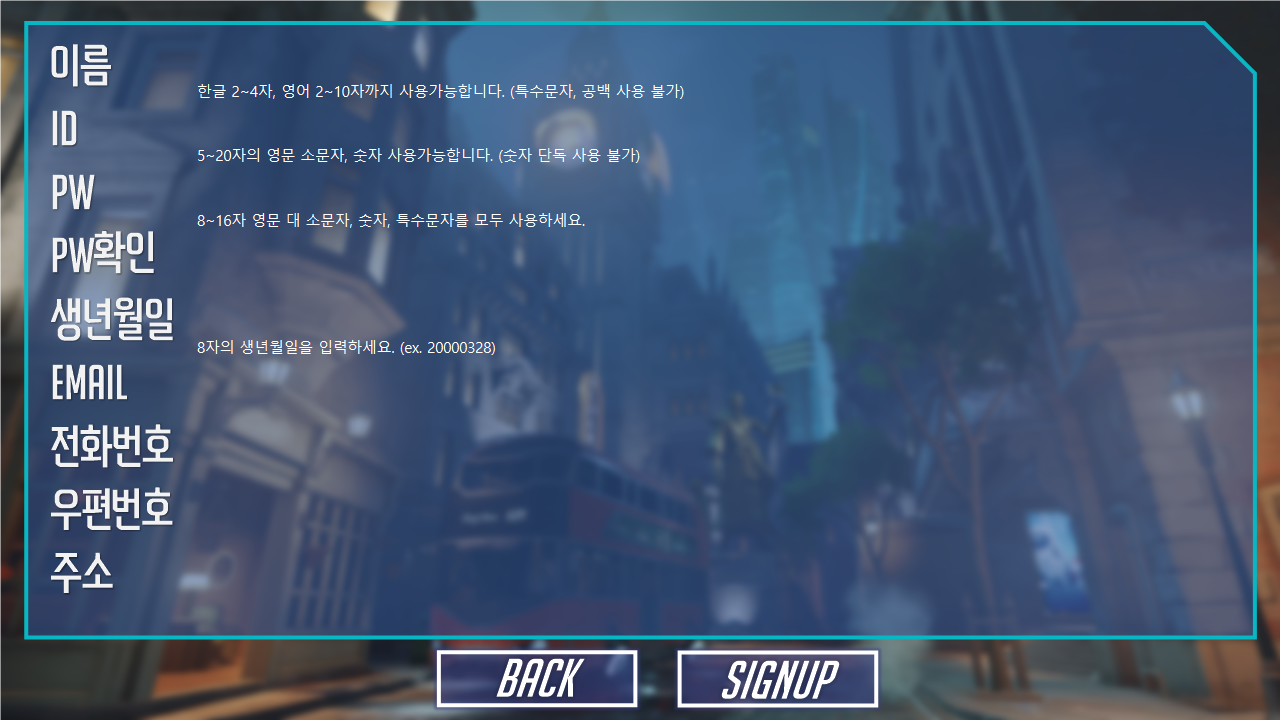
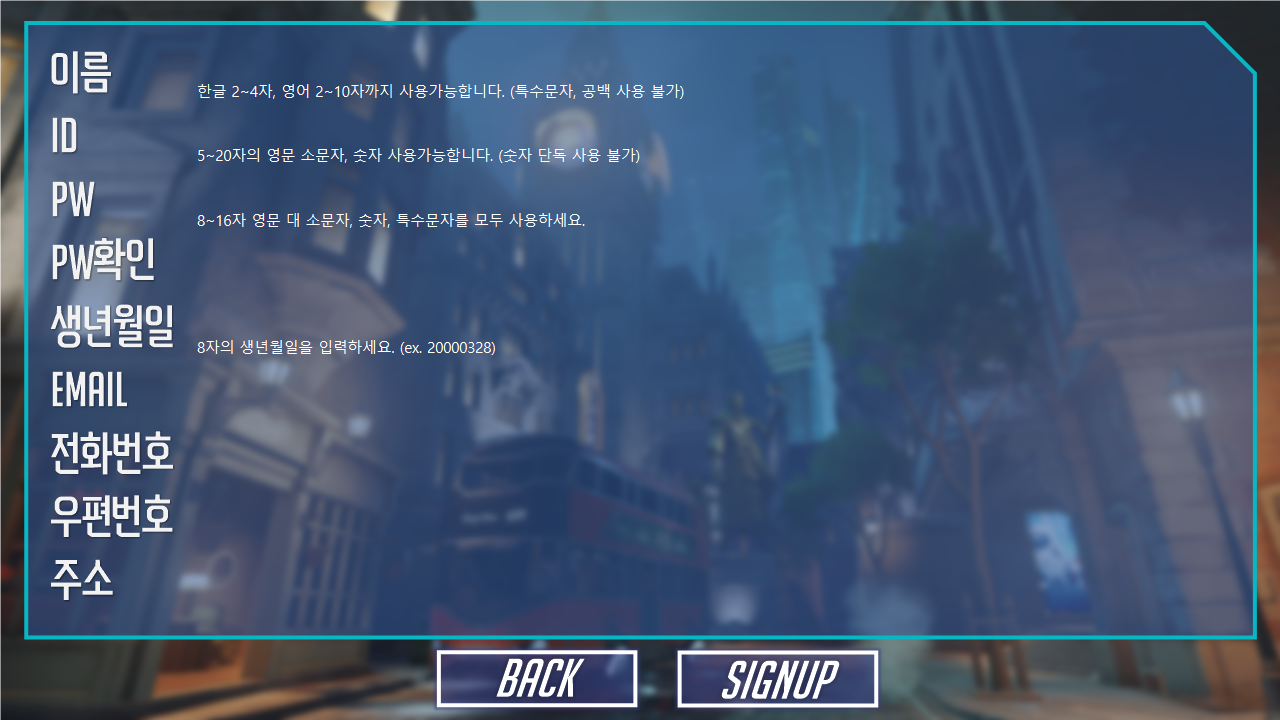
[ADD] textfield ui 정렬 완료

Changed region(s): [[0.0312, 0.2444, 0.1562, 0.825], [0.0312, 0.0611, 0.0938, 0.1528], [0.0312, 0.1528, 0.0625, 0.2139]]

diff --git a/SignUp/src/view/SignUpScreen.java b/SignUp/src/view/SignUpScreen.java
@@ -4,30 +4,32 @@ import java.awt.*;
 import javax.swing.border.*;
 
 public class SignUpScreen extends BasicScreen {
-	public Panel signupPanel;
-	public JPanel buttonPanel;
 	public JPanel signUpPagePanel;
+	private JPanel textPanel;
+	private Panel signupPanel;
+	private JPanel buttonPanel;
 	
 	private Image background;
 	private JButton backButton;
 	private JButton signupButton;
-	private JTextField idField;
-	private JTextField passwordField;
-	private JTextField passwordConfirmField;
-	private JTextField birthField;
-	private JTextField emailFrontField;
-	private JTextField emailBackField;
-	private JTextField numberField;
-	private JTextField detailAddressField;
+	private JTextField [] informationField;
+	private JLabel emailSign;
 	
 	public SignUpScreen() {
 		signupPanel = new Panel();
 		signUpPagePanel = new JPanel();
 		buttonPanel = new JPanel();
+		textPanel = new JPanel();
 		background = new ImageIcon(MainScreen.class.getResource("../image/signupPage.png")).getImage();
 		
 		backButton = new JButton(new ImageIcon(MainScreen.class.getResource("../image/backButton.png")));
 		signupButton = new JButton(new ImageIcon(MainScreen.class.getResource("../image/signupButton.png")));
+		
+		informationField = new JTextField[13];
+		for (int fieldIndex = 0;fieldIndex<13;fieldIndex++) {
+			informationField[fieldIndex] = new JTextField(){public void setBorder(Border border) {}};
+		}
+		emailSign = new JLabel("@");
 	}
 	public void showSignUpScreen() {
 		signUpPagePanel.setSize(new Dimension(1280, 745));
@@ -35,8 +37,10 @@ public class SignUpScreen extends BasicScreen {
 		signUpPagePanel.setLayout(null);
 		showSignUpBackground();
 		showButtonPanel();
+		showInformationTextField();
 		signUpPagePanel.add(signupPanel);
 		signUpPagePanel.add(buttonPanel);
+		signUpPagePanel.add(textPanel);
 	}
 	
 	public void showSignUpBackground() {
@@ -65,8 +69,49 @@ public class SignUpScreen extends BasicScreen {
 		buttonPanel.setVisible(true);
 	}
 	
-	public void showLoginTextField() {
-	
+	public void showInformationTextField() {
+		textPanel.setSize(1250, 710);
+		textPanel.setLocation(0, 0);
+		textPanel.setLayout(null);
+		
+		informationField[0].setSize(150, 30);
+		informationField[0].setLocation(195, 50); // 이름 
+		informationField[1].setSize(150, 30);
+		informationField[1].setLocation(195, 115); // 아이디 
+		informationField[2].setSize(150, 30); 
+		informationField[2].setLocation(195, 180); // 비밀번호 
+		informationField[3].setSize(150, 30);
+		informationField[3].setLocation(195, 245); // 비밀번호 확인 
+		informationField[4].setSize(150, 30);
+		informationField[4].setLocation(195, 305); // 생년월일8글자 
+		
+		informationField[5].setSize(150, 30);
+		informationField[5].setLocation(195, 370); // 이메일 아이디 
+		emailSign.setLocation(1, 1);
+		emailSign.setSize(20, 20);
+		informationField[6].setSize(150, 30);
+		informationField[6].setLocation(400, 370); // 이메일 뒷 주소 
+		
+		informationField[7].setSize(90, 30);
+		informationField[7].setLocation(195, 435); // 전화번호 
+		informationField[8].setSize(90, 30);
+		informationField[8].setLocation(290, 435);
+		informationField[9].setSize(90, 30);
+		informationField[9].setLocation(385, 435);
+		
+		informationField[10].setSize(150, 30);
+		informationField[10].setLocation(195, 500); // 우편번호 
+		informationField[11].setSize(350, 30);
+		informationField[11].setLocation(195, 550); // 주소 
+		informationField[12].setSize(150, 30);
+		informationField[12].setLocation(195, 585); // 상세주소 
+		
+		
+		for (int fieldIndex = 0;fieldIndex<13;fieldIndex++) {
+			textPanel.add(informationField[fieldIndex]);
+		}
+		textPanel.add(emailSign);
+		textPanel.setVisible(true);
 	}
 	
 	private class Panel extends JPanel { // 패널에 배경 그려주는 클래스 
